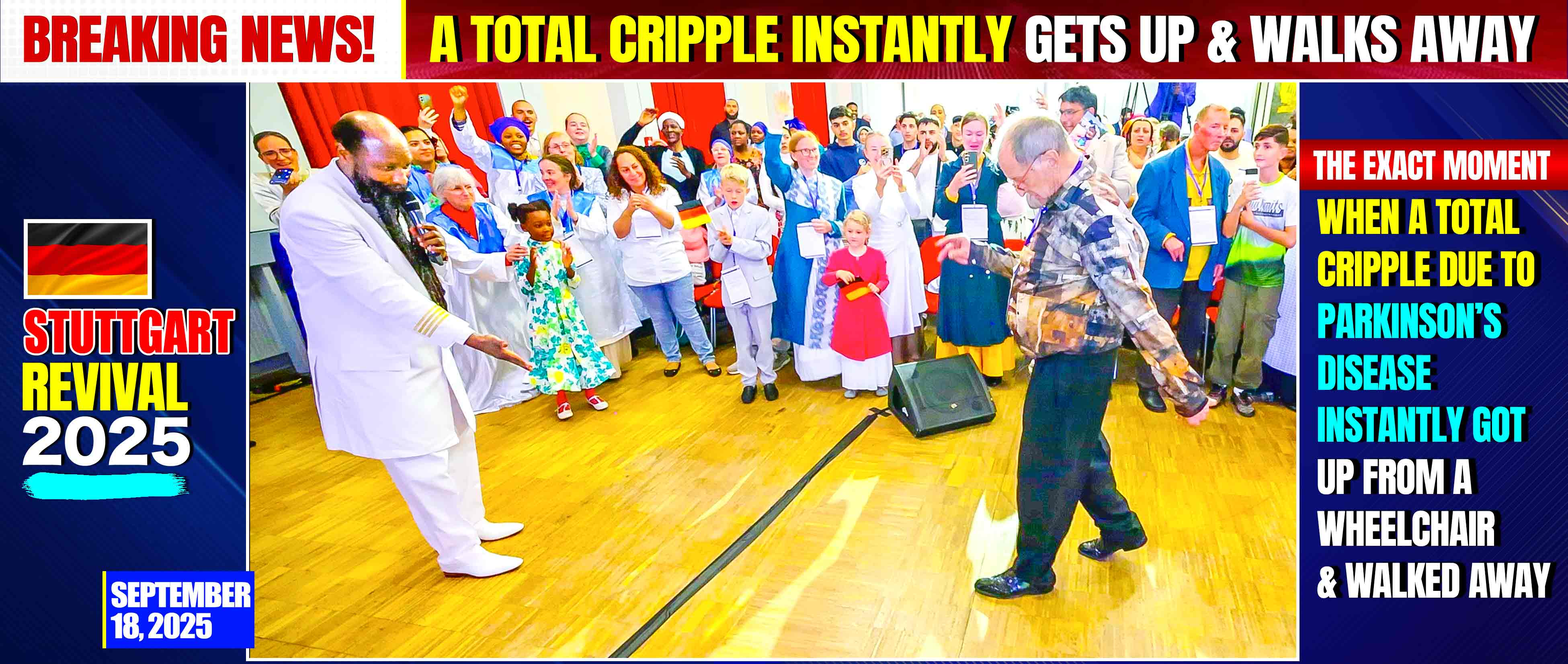
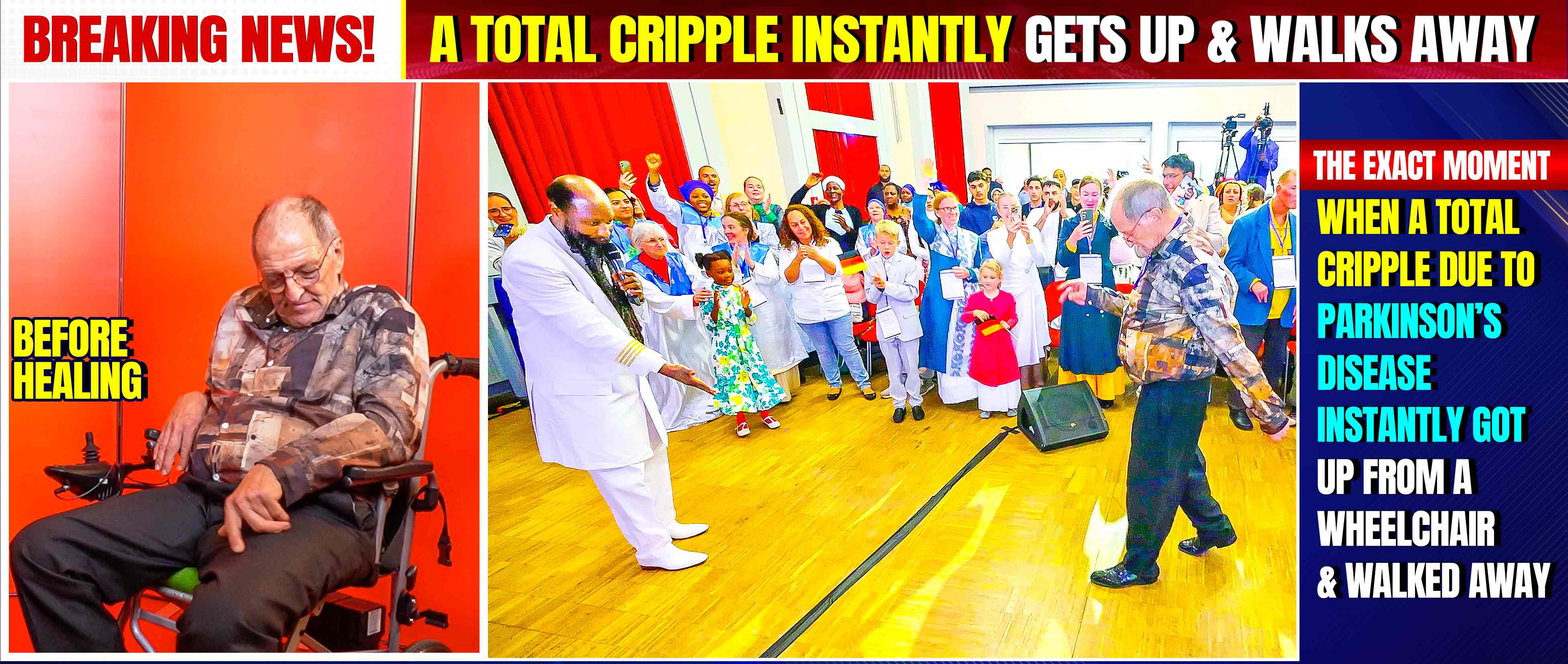
Arrival

diff --git a/index.html b/index.html
@@ -12,11 +12,16 @@
 
          <!-- Stuttgart Healing service  -->       
 <img class="slideshow" src= "https://pub-9f92551086574e82abebdc7b9c83cf92.r2.dev/Stuttgart%20healing%20Service/00.Skyline.jpg" alt="Unstable internet, please refresh the browser">
+<img class="slideshow" src= "https://pub-9f92551086574e82abebdc7b9c83cf92.r2.dev/Stuttgart%20healing%20Service/Crowd-3.jpg" alt="Unstable internet, please refresh the browser">
 <img class="slideshow" src= "https://pub-9f92551086574e82abebdc7b9c83cf92.r2.dev/Stuttgart%20healing%20Service/Crowd-1.jpg" alt="Unstable internet, please refresh the browser">
 <img class="slideshow" src= "https://pub-9f92551086574e82abebdc7b9c83cf92.r2.dev/Stuttgart%20healing%20Service/Crowd-2.jpg" alt="Unstable internet, please refresh the browser">
+
 <img class="slideshow" src= "https://pub-9f92551086574e82abebdc7b9c83cf92.r2.dev/Stuttgart%20healing%20Service/Cripple-1.jpg" alt="Unstable internet, please refresh the browser">
 <img class="slideshow" src= "https://pub-9f92551086574e82abebdc7b9c83cf92.r2.dev/Stuttgart%20healing%20Service/Cripple-2.jpg" alt="Unstable internet, please refresh the browser">
 <img class="slideshow" src= "https://pub-9f92551086574e82abebdc7b9c83cf92.r2.dev/Stuttgart%20healing%20Service/Cripple-3.jpg" alt="Unstable internet, please refresh the browser">
+
+<!-- BACKPAINS  --> 
+<img class="slideshow" src= " " alt="Unstable internet, please refresh the browser">
 
  <!-- Stuttgart Conference  -->       
 <img class="slideshow" src= "https://pub-9f92551086574e82abebdc7b9c83cf92.r2.dev/Germany%202025/Stuttgart-arrival/Skyline.jpg" alt="Unstable internet, please refresh the browser">
